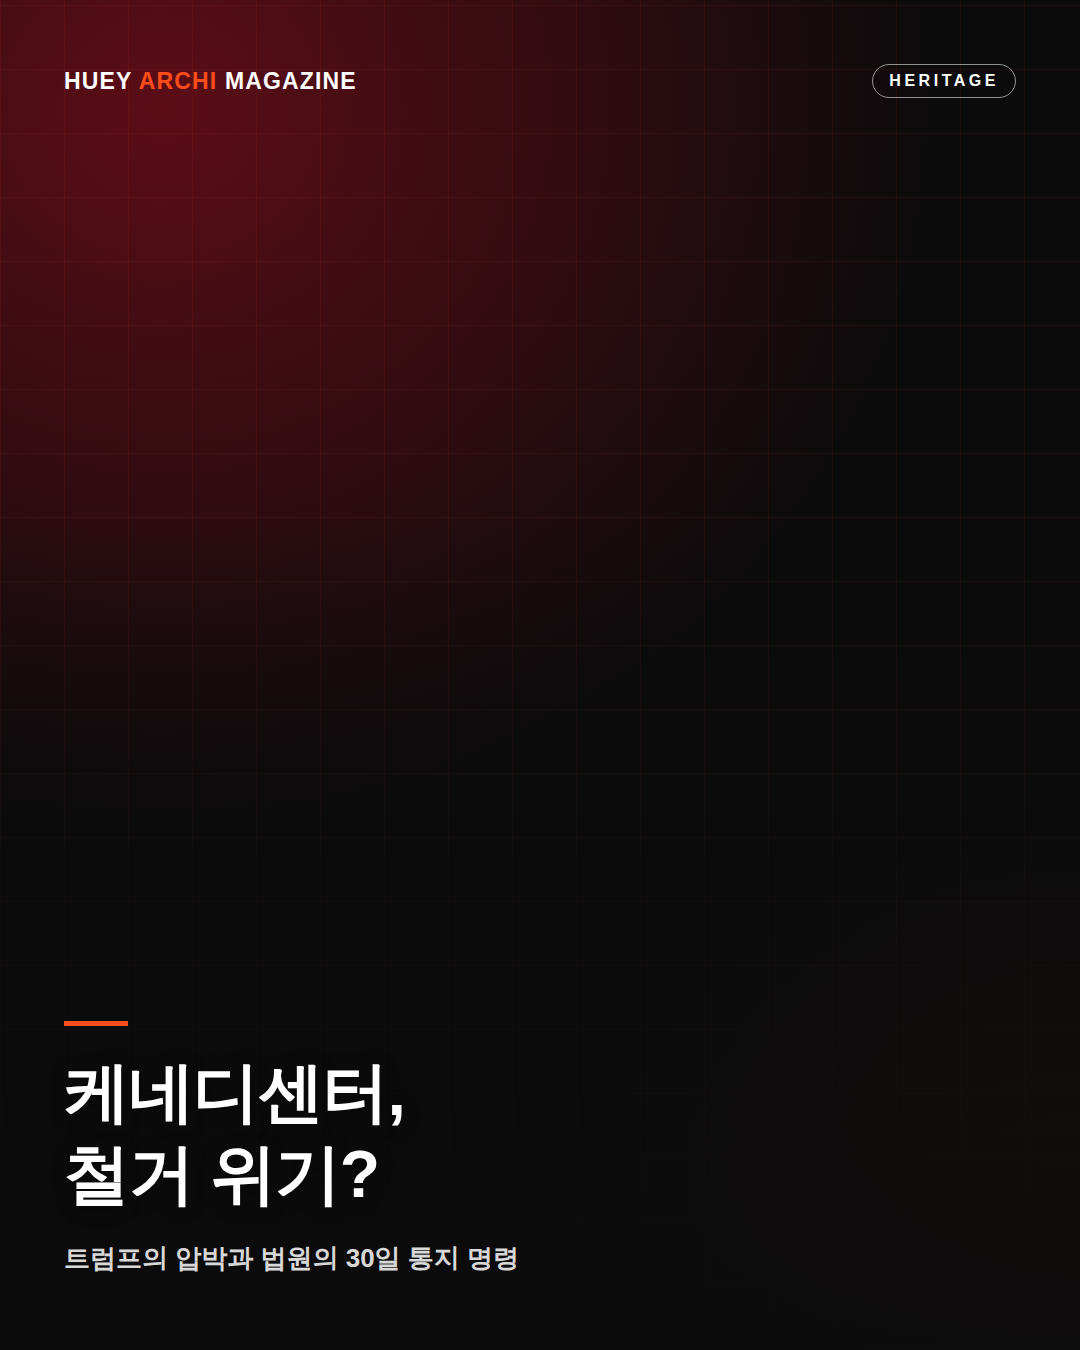
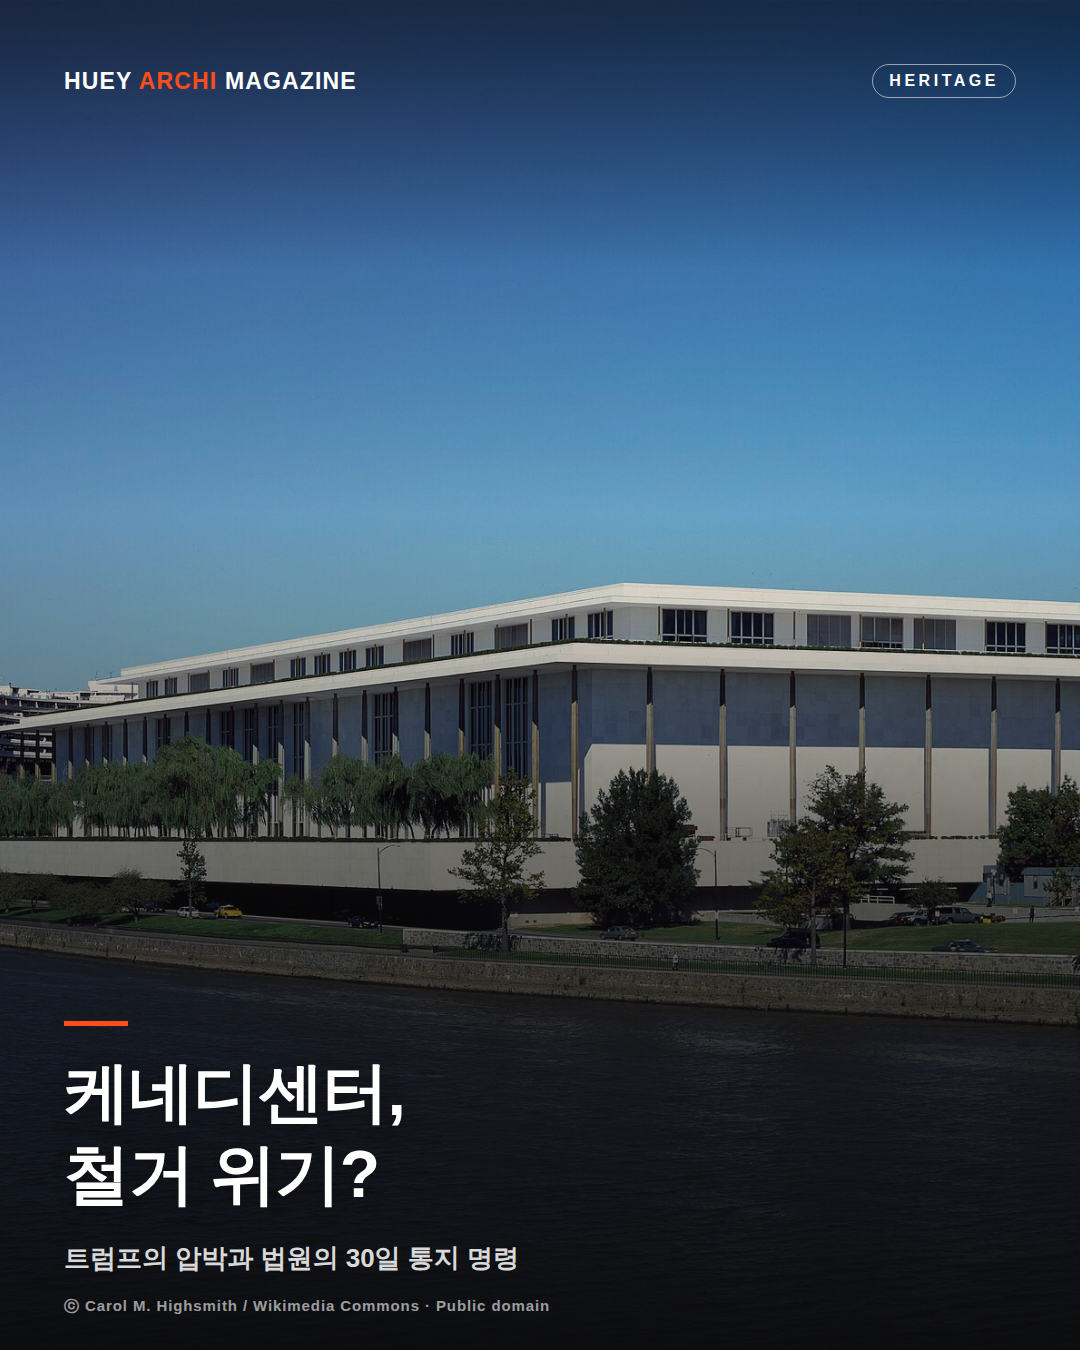
카드뉴스: 위키미디어 커먼즈 실사진 지원 (PD·CC0·CC BY 자동 검증)
- cardnews.py: commons_photos 필드, 라이선스 자동 검증(BY-SA·ND·NC 거부), --commons-search 후보 탐색
- 우선순위: 공공누리 → 커먼즈 → Unsplash → 브랜드 그래픽
- 2026-09-29 케네디센터 카드뉴스를 실사진 5장으로 교체
- CLAUDE.md 규칙 갱신 (편집자 승인)

Claude-Session: https://claude.ai/code/session_01NqFybN2cYCM8gaouf5UfEQ

diff --git a/cardnews.py b/cardnews.py
@@ -49,7 +49,10 @@ import base64
 import io
 import json
 import os
+import re
 import sys
+import time
+import urllib.error
 import urllib.parse
 import urllib.request
 
@@ -86,7 +89,9 @@ FONT_FAMILY = "'Pretendard Variable', Pretendard, 'Apple SD Gothic Neo', sans-se
 
 # ------------------------------------------------------------------ 배경 사진
 # 1순위는 item의 "official_photos"(공공누리 등 확인된 정부·공공기관 이미지, 실사진 그대로).
-# 그걸로 못 채운 슬라이드는 "photo_query"로 Unsplash를 검색해 채운다 — 이 경우 기사와
+# 2순위는 item의 "commons_photos"(위키미디어 커먼즈 파일명) — 라이선스를 API로 자동 확인해
+# 퍼블릭 도메인·CC0·CC BY만 쓴다(BY-SA·ND·NC는 거부). 실제 그 건물 사진이라 문구 없이 출처만 단다.
+# 그걸로도 못 채운 슬라이드는 "photo_query"로 Unsplash를 검색해 채운다 — 이 경우 기사와
 # 무관한 연출컷이라는 문구가 자동으로 붙는다. 키 없음/검색 실패면 브랜드 그래픽으로 폴백한다.
 UNSPLASH_KEY = os.environ.get("UNSPLASH_ACCESS_KEY", "")
 
@@ -127,6 +132,97 @@ def download_official(entry):
     return photo
 
 
+COMMONS_API = "https://commons.wikimedia.org/w/api.php"
+# 위키미디어는 식별 가능한 User-Agent를 요구한다.
+COMMONS_UA = "HEUY.ARCHI-cardnews/1.0 (https://huey-studio.github.io/)"
+_commons_cache = {}  # title -> photo | None
+
+
+def commons_license_ok(name):
+    """카드뉴스(사진 위에 글자를 얹은 2차 저작물)에 쓸 수 있는 라이선스인지.
+    BY-SA는 카드 전체를 같은 라이선스로 풀어야 하고, ND는 변형 금지, NC는 비영리 한정이라 제외한다."""
+    n = (name or "").strip().lower()
+    if n.startswith("public domain") or n in {"pd", "cc0", "cc0 1.0", "cc-zero"} or n.startswith("pd-"):
+        return True
+    return bool(re.fullmatch(r"cc[ -]by \d(\.\d)?", n))
+
+
+def _strip_html(v):
+    return re.sub(r"\s+", " ", re.sub(r"<[^>]+>", "", v or "")).strip()
+
+
+def _commons_query(params, thumb=False):
+    params = {"action": "query", "format": "json", "prop": "imageinfo",
+              "iiprop": "url|extmetadata|size",
+              "iiextmetadatafilter": "LicenseShortName|Artist|ObjectName|ImageDescription|Restrictions",
+              **params}
+    if thumb:  # 썸네일 URL은 실제로 받을 파일에만 요청한다(검색 20건에 걸면 429가 난다)
+        params["iiurlwidth"] = 1600
+    req = urllib.request.Request(f"{COMMONS_API}?{urllib.parse.urlencode(params)}",
+                                 headers={"User-Agent": COMMONS_UA})
+    for attempt in range(4):
+        try:
+            with urllib.request.urlopen(req, timeout=20) as resp:
+                return list((json.load(resp).get("query") or {}).get("pages", {}).values())
+        except urllib.error.HTTPError as e:
+            if e.code != 429 or attempt == 3:
+                raise
+            time.sleep(2 ** (attempt + 1))
+
+
+def _commons_meta(page):
+    info = (page.get("imageinfo") or [{}])[0]
+    meta = info.get("extmetadata") or {}
+    get = lambda k: _strip_html((meta.get(k) or {}).get("value", ""))
+    return info, get("LicenseShortName"), get("Artist") or "작자 미상", get
+
+
+def download_commons(title):
+    """커먼즈 파일(예: "File:Kennedy Center.jpg")을 라이선스 확인 후 받아온다."""
+    if not title.startswith("File:"):
+        title = "File:" + title
+    if title in _commons_cache:
+        return _commons_cache[title]
+    photo = None
+    try:
+        pages = _commons_query({"titles": title}, thumb=True)
+        if not pages or "missing" in pages[0]:
+            print(f"    [commons] 파일 없음: {title}", file=sys.stderr)
+        else:
+            info, lic, artist, get = _commons_meta(pages[0])
+            if not commons_license_ok(lic):
+                print(f"    [commons] 라이선스 불가({lic or '미상'}) — 건너뜀: {title}", file=sys.stderr)
+            else:
+                if get("Restrictions"):
+                    print(f"    [commons] 주의: 추가 제한 {get('Restrictions')!r} — {title}", file=sys.stderr)
+                req = urllib.request.Request(info.get("thumburl") or info["url"],
+                                             headers={"User-Agent": COMMONS_UA})
+                with urllib.request.urlopen(req, timeout=30) as resp:
+                    data = base64.b64encode(resp.read()).decode()
+                    ctype = resp.headers.get_content_type() or "image/jpeg"
+                photo = {"data_uri": f"data:{ctype};base64,{data}", "kind": "commons",
+                         "credit_name": f"{artist} / Wikimedia Commons · {lic}"}
+    except Exception as e:
+        print(f"    [commons] 실패({title!r}): {e}", file=sys.stderr)
+    _commons_cache[title] = photo
+    return photo
+
+
+def commons_search(query, limit=20):
+    """후보 탐색용: python3 cardnews.py --commons-search "kennedy center"
+    라이선스 적합 여부(✓/✗)·크기·설명을 보여준다. 설명을 읽고 실제 기사 속 그 건물인지
+    확인한 뒤 파일명을 commons_photos에 넣는다."""
+    pages = _commons_query({"generator": "search", "gsrsearch": f"{query} filetype:bitmap",
+                            "gsrnamespace": 6, "gsrlimit": limit})
+    pages.sort(key=lambda p: p.get("index", 0))
+    for pg in pages:
+        info, lic, artist, get = _commons_meta(pg)
+        mark = "✓" if commons_license_ok(lic) else "✗"
+        desc = (get("ImageDescription") or get("ObjectName"))[:70]
+        print(f"{mark} {lic or '?':<14} {info.get('width')}x{info.get('height')}  {pg['title']}\n"
+              f"      {artist[:40]} — {desc}")
+
+
 def search_unsplash(query, count=1):
     """query로 최대 count장의 서로 다른 사진을 받아온다. 결과는 관련도순(1순위가 먼저)."""
     # Playwright의 크로미움은 이 환경의 HTTPS 프록시(커스텀 CA)를 신뢰하지 않아
@@ -161,7 +257,7 @@ def credit_block(photo):
     """사진 출처 표시. Unsplash 사진에는 '기사와 무관한 이미지'라는 문구를 함께 남긴다."""
     if not photo:
         return ""
-    if photo.get("kind") == "official":
+    if photo.get("kind") in ("official", "commons"):
         return f'<div class="foot"><div class="credit">ⓒ {esc(photo["credit_name"])}</div></div>'
     return (
         '<div class="foot">'
@@ -408,6 +504,7 @@ def photos_for_item(item, slides):
     우선순위:
       1. item의 "official_photos"(공공누리 등 확인된 정부·공공기관 이미지) — 앞 슬라이드부터 채운다.
          표지(0번)에 실제 취재 사진이 들어가는 가장 좋은 경우다.
+      1-2. item의 "commons_photos"(위키미디어 커먼즈 파일명) — 라이선스 자동 확인 후 다음 빈 칸부터.
       2. 슬라이드 자신에게 photo_query가 있으면 그 슬라이드만 Unsplash에서 단독 검색.
       3. 나머지는 item의 photo_query 하나로 슬라이드 수만큼 한 번에 검색한 Unsplash 결과
          (API 호출 1회)에서 순서대로 채운다.
@@ -420,6 +517,11 @@ def photos_for_item(item, slides):
         if i >= n:
             break
         photos[i] = download_official(entry)
+    commons = [download_commons(t) for t in (item.get("commons_photos") or [])]
+    commons = [c for c in commons if c]
+    for i in range(n):
+        if photos[i] is None and commons:
+            photos[i] = commons.pop(0)
 
     empty_idx = [i for i in range(n) if photos[i] is None]
     for i in empty_idx:
@@ -457,8 +559,12 @@ def render_item(browser, day, item):
     os.makedirs(out_dir, exist_ok=True)
     photos = photos_for_item(item, slides)
     n_found = len([p for p in photos if p])
-    if item.get("photo_query"):
-        print(f"    [unsplash] {n_found}/{len(slides)}장 확보 (기본 검색어 {item['photo_query']!r})")
+    n_real = len([p for p in photos if p and p["kind"] != "unsplash"])
+    if item.get("commons_photos") or item.get("official_photos"):
+        print(f"    [실사진] {n_real}/{len(slides)}장 (공공누리·커먼즈)")
+    n_unsplash = len([p for p in photos if p and p["kind"] == "unsplash"])
+    if item.get("photo_query") and n_unsplash:
+        print(f"    [unsplash] {n_unsplash}/{len(slides)}장 (기본 검색어 {item['photo_query']!r})")
     page = browser.new_page(viewport={"width": W, "height": H}, device_scale_factor=1)
     try:
         for i, slide in enumerate(slides):
@@ -513,6 +619,9 @@ def run(days, force, og_default=False):
 
 
 if __name__ == "__main__":
+    if sys.argv[1:2] == ["--commons-search"]:
+        commons_search(" ".join(sys.argv[2:]))
+        sys.exit(0)
     flags = {"--force", "--og-default"}
     args = [a for a in sys.argv[1:] if a not in flags]
     force = "--force" in sys.argv[1:]

diff --git a/CLAUDE.md b/CLAUDE.md
@@ -311,7 +311,10 @@ python3 render.py <날짜>     # 웹페이지(타일·상세페이지) 생성
     "official_photos": [                          // 선택. 공공누리 등 자유이용이 확인된 정부·공공기관 실사진
       { "url": "https://...", "credit": "국가유산청 · 공공누리 제1유형" }
     ],
-    "photo_query": "temple wood restoration",     // 영문 검색어 — official_photos로 못 채운 슬라이드를 Unsplash로 채운다
+    "commons_photos": [                           // 선택. 위키미디어 커먼즈 파일명 — 라이선스는 cardnews.py가 자동 검증
+      "File:Kennedy Center for the Performing Arts, Washington, D.C., LCCN2011632175.jpg"
+    ],
+    "photo_query": "temple wood restoration",     // 영문 검색어 — 실사진으로 못 채운 슬라이드를 Unsplash로 채운다
     "slides": [
       // 슬라이드[0] = 표지. heading은 큰 제목(\n으로 줄바꿈), body는 부제 한 줄.
       { "heading": "강남 한복판에\n뜨는 49층 타워", "body": "스튜디오 리베스킨드가 그린 대치쌍용의 새 얼굴" },
@@ -329,7 +332,10 @@ python3 render.py <날짜>     # 웹페이지(타일·상세페이지) 생성
 - `ref`가 가리키는 기사는 `data/<날짜>.json` 안에 **이미 존재해야** 한다 — 카드뉴스는 새 취재가
   아니라 그날 지면 기사 중 하나를 다시 편집한 것.
 
-**배경 사진 — 실사진(공공누리)이 1순위, Unsplash는 그 다음**
+**배경 사진 — 우선순위: ① 공공누리 → ② 위키미디어 커먼즈 실사진 → ③ Unsplash 분위기컷 → ④ 브랜드 그래픽**
+
+카드뉴스를 고를 때마다 **실사진(①②)을 먼저 찾는다.** Unsplash는 기사와 무관한 연출컷이라
+실사진을 못 구했을 때만 쓴다.
 
 - **`official_photos`**: 정부·공공기관이 공공누리 등으로 자유이용을 허락한 이미지라면
   실제 기사 사진을 카드뉴스에 그대로 쓸 수 있다. `[{ "url": "...", "credit": "국가유산청 ·
@@ -338,7 +344,20 @@ python3 render.py <날짜>     # 웹페이지(타일·상세페이지) 생성
   라이선스 유형(제1~4유형)을 사람이 직접 눈으로 확인한 뒤에만 넣을 것** — 그 사진이 어느
   기관 소속인지, 정말 자유이용 허락 범위 안인지 짐작으로 넣지 않는다. 확인이 안 되면 그냥
   비워두고 Unsplash로 넘긴다. `credit`에 적은 문구가 사진 하단에 그대로 출처로 표시된다.
-- **`photo_query`**(영문 검색어): `official_photos`로 못 채운 나머지 슬라이드를 Unsplash로
+- **`commons_photos`**(위키미디어 커먼즈 파일명 목록, 편집자 HUEY 승인 2026-09-30): 기사 속
+  **실제 그 건물·현장**의 사진을 커먼즈에서 찾아 쓴다. 유명 건축물·준공된 지 좀 된 건물·
+  사건 현장은 실사진이 있는 경우가 많다(신규 설계안·막 준공한 신축은 거의 없다).
+  - 후보 찾기: `python3 cardnews.py --commons-search "kennedy center washington"` →
+    ✓/✗(라이선스 적합 여부)·해상도·촬영자·설명이 나온다. **설명을 읽고 기사 속 그 건물이
+    맞는지 확인한 뒤** ✓ 파일명만 `commons_photos`에 넣는다(슬라이드 순서대로 배정,
+    `official_photos` 다음 빈 칸부터).
+  - 허용 라이선스: **퍼블릭 도메인·CC0·CC BY**만. `cardnews.py`가 렌더 직전에 API로 다시
+    확인해 **CC BY-SA(카드 전체에 같은 라이선스 전파)·ND(변형 금지)·NC(비영리 한정)는
+    자동으로 거부**하고 다음 순위로 넘어간다. 파일명은 영문 검색으로 찾되 가로 사진도 괜찮다
+    (세로로 크롭된다). 인물이 크게 나온 사진은 초상권 문제가 있으니 건물 사진 위주로 고른다.
+  - 출처는 "ⓒ 촬영자 / Wikimedia Commons · CC BY 4.0" 형식으로 자동 표기되고, 실제 사진이라
+    "기사 내용과 무관" 문구는 붙지 않는다.
+- **`photo_query`**(영문 검색어): `official_photos`·`commons_photos`로 못 채운 나머지 슬라이드를 Unsplash로
   채운다. item에 하나 넣으면 그 검색어로 슬라이드 수만큼 서로 다른 사진을 API 호출 1회로
   받아와 순서대로 배정한다(같은 사진 반복 금지). 슬라이드 각각의 소재 차이를 더 살리고
   싶으면 그 슬라이드 객체 안에 `photo_query`를 따로 넣어 단독 검색시킬 수 있다 — 검색어는
@@ -357,8 +376,9 @@ python3 render.py <날짜>     # 웹페이지(타일·상세페이지) 생성
 - **매체(Dezeen·ArchDaily 등) 사진, 건축사사무소가 언론에 제공한 렌더링, 국내 민간 언론사
   자체 촬영본은 여전히 카드뉴스 배경으로 쓰지 않는다** — 라이선스를 확인할 방법이 없는 한,
   핫링크가 아니라 이미지를 그대로 복제해 재배포하는 셈이라 저작권 리스크가 사이트 임베딩보다
-  훨씬 크다("보도용으로 제공됨"이 "누구나 재배포 가능"을 뜻하지 않는다). `official_photos`에
-  넣을 수 있는 건 오직 공공누리처럼 라이선스가 명시적으로 확인된 정부·공공기관 이미지뿐이다.
+  훨씬 크다("보도용으로 제공됨"이 "누구나 재배포 가능"을 뜻하지 않는다). 실사진으로 쓸 수 있는
+  건 공공누리처럼 라이선스가 명시적으로 확인된 정부·공공기관 이미지(`official_photos`)와
+  라이선스가 자동 검증되는 커먼즈 PD·CC0·CC BY 사진(`commons_photos`)뿐이다.
 - **모든 사진 하단에 출처를 남긴다.** `official_photos` 사진은 `credit` 문구를 그대로
   ("ⓒ 국가유산청 · 공공누리 제1유형"), Unsplash 사진은 촬영자명과 함께("ⓒ 이름 /
   Unsplash") **"기사 내용과 무관한 이미지입니다"라는 문구가 자동으로 붙는다** — 실제 취재
